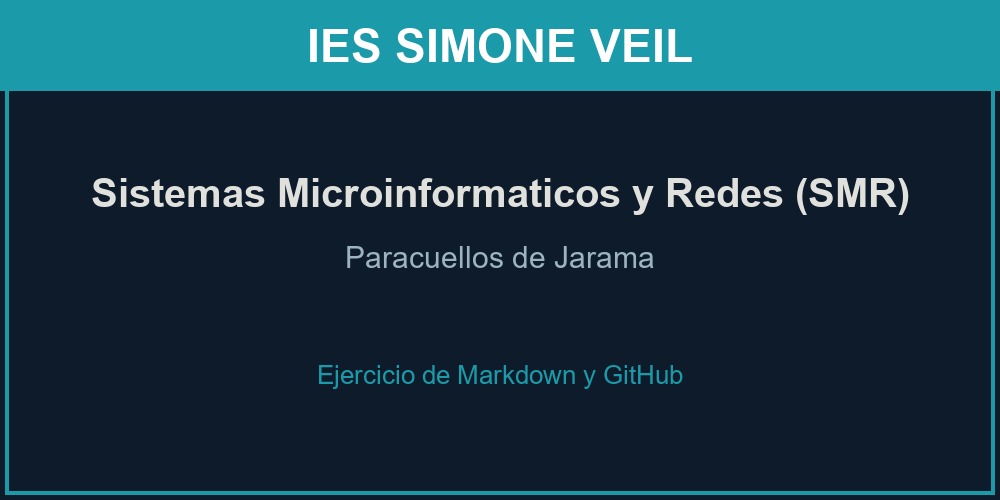
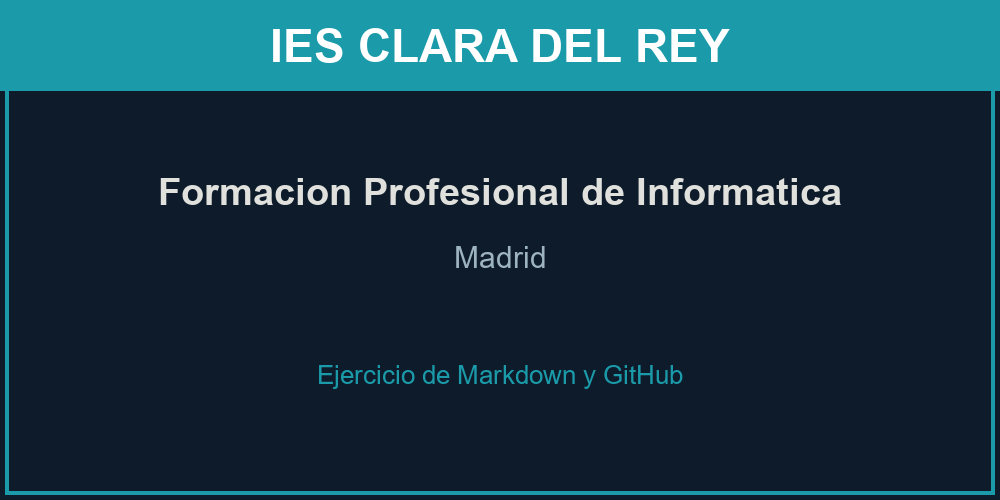
Cambio el tema del documento a IES Clara del Rey (texto e imagenes)

Changed region(s): [[0.093, 0.36, 0.93, 0.45], [0.248, 0.06, 0.744, 0.15], [0.341, 0.48, 0.651, 0.54]]

diff --git a/markdown.md b/markdown.md
@@ -1,65 +1,64 @@
-# IES Simone Veil
+# IES Clara del Rey
 
-## El ciclo de Sistemas Microinformáticos y Redes (SMR)
+## Un instituto de Madrid con nombre de heroína
 
-El **IES Simone Veil** es un instituto público situado en *Paracuellos de Jarama*
-(Comunidad de Madrid). Entre su oferta formativa se encuentra el ciclo de **Grado
-Medio de Sistemas Microinformáticos y Redes (SMR)**, donde se aprende a montar,
-configurar y mantener equipos y redes. Una de las herramientas que se usan en clase
-es el control de versiones con `git`.
+El **IES Clara del Rey** es un instituto público de *Madrid* en el que, además de la
+ESO y el Bachillerato, se imparte **Formación Profesional de Informática**. En estos
+estudios se aprende a montar equipos, administrar sistemas y redes, y usar herramientas
+como el control de versiones con `git`.
 
 ---
 
-## ¿Qué se aprende en SMR?
+## ¿Qué se estudia en Informática?
 
-En este ciclo se trabajan, entre otras cosas, estas áreas:
+Las áreas que más se trabajan en los ciclos de informática son:
 
-- Montaje y mantenimiento de equipos informáticos.
-- Instalación de sistemas operativos (Windows y Linux).
-- Redes locales: cableado, configuración y resolución de problemas.
-- Seguridad informática básica.
-- Servicios de red y pequeños servidores.
+- Montaje y mantenimiento de equipos.
+- Sistemas operativos (Windows y Linux).
+- Redes locales y servicios de red.
+- Seguridad informática.
+- Programación y desarrollo de aplicaciones.
 
-Y el itinerario habitual del alumnado suele ser:
+El itinerario típico del alumnado suele ser:
 
-1. Cursar **primer curso** (módulos básicos).
-2. Cursar **segundo curso** (módulos más avanzados).
-3. Realizar las **prácticas en empresa (FCT)**.
-4. Titular como *Técnico en Sistemas Microinformáticos y Redes*.
+1. Elegir un **ciclo** (grado medio o superior).
+2. Cursar **primer curso** con los módulos básicos.
+3. Cursar **segundo curso** con los módulos avanzados.
+4. Hacer las **prácticas en empresa (FCT)** y titular.
 
 ## Un ejemplo de código
 
-Un comando típico que usamos en Linux para ver la configuración de red:
+Comandos típicos que usamos en Linux para revisar la red:
 
 ```bash
-# Mostrar las interfaces de red y sus direcciones IP
+# Ver las interfaces de red y comprobar la conexion
 ip addr show
 ping -c 4 8.8.8.8
 ```
 
-## Módulos del ciclo (ejemplo)
+## Ciclos de FP de Informática (en España)
 
-| Módulo                         | Curso   | Horas semanales |
-|--------------------------------|---------|-----------------|
-| Montaje y mantenimiento        | Primero | 5               |
-| Redes locales                  | Primero | 6               |
-| Seguridad informática          | Segundo | 4               |
-| Servicios en red               | Segundo | 6               |
+| Ciclo                                          | Grado    | Duración |
+|------------------------------------------------|----------|----------|
+| Sistemas Microinformáticos y Redes (SMR)       | Medio    | 2 años   |
+| Administración de Sistemas Informáticos (ASIR) | Superior | 2 años   |
+| Desarrollo de Aplicaciones Web (DAW)           | Superior | 2 años   |
 
 ## Enlaces
 
-- Página oficial de la Comunidad de Madrid sobre el ciclo:
-  [Sistemas Microinformáticos y Redes](https://www.comunidad.madrid/servicios/educacion/sistemas-microinformaticos-redes).
-- Más detalles sobre el instituto en este mismo repositorio:
+- Información oficial de la Comunidad de Madrid sobre
+  [Formación Profesional](https://www.comunidad.madrid/servicios/educacion/formacion-profesional).
+- Más detalles sobre el instituto en este repositorio:
   [Ver detalles](docs/detalles.md).
 
-## Imagen del instituto (imagen local)
+## Imagen del proyecto (imagen local)
 
-![Logo del proyecto SMR del IES Simone Veil](assets/mi-imagen.png)
+![Banner del instituto IES Clara del Rey](assets/mi-imagen.png)
 
-## Simone Veil (imagen externa de Wikimedia)
+## Clara del Rey (imagen externa de Wikimedia)
 
-El instituto lleva el nombre de **Simone Veil**, política francesa y superviviente
-del Holocausto. Esta imagen procede de Wikimedia Commons:
+El instituto lleva el nombre de **Clara del Rey**, una de las heroínas del
+*levantamiento del 2 de mayo de 1808* en Madrid. Esta imagen de su busto procede de
+Wikimedia Commons:
 
-![Retrato de Simone Veil](https://upload.wikimedia.org/wikipedia/commons/thumb/f/fc/Official_portrait_of_Simone_Veil_%28cropped%29.jpg/500px-Official_portrait_of_Simone_Veil_%28cropped%29.jpg)
+![Busto de Clara del Rey en la Plaza de las Comendadoras (Madrid)](https://upload.wikimedia.org/wikipedia/commons/thumb/4/46/Clara_del_Rey_-_Plaza_de_las_Comendadoras_-_Madrid_01.jpg/500px-Clara_del_Rey_-_Plaza_de_las_Comendadoras_-_Madrid_01.jpg)

diff --git a/docs/detalles.md b/docs/detalles.md
@@ -1,21 +1,21 @@
-# Detalles del IES Simone Veil
+# Detalles del IES Clara del Rey
 
 Este es el **fichero secundario** del repositorio, enlazado desde
 [markdown.md](../markdown.md) mediante una ruta relativa.
 
 ## Sobre el instituto
 
-- **Nombre:** IES Simone Veil
-- **Localidad:** Paracuellos de Jarama (Comunidad de Madrid)
+- **Nombre:** IES Clara del Rey
+- **Localidad:** Madrid
 - **Tipo:** Instituto público de Educación Secundaria y Formación Profesional
 
-## ¿Quién fue Simone Veil?
+## ¿Quién fue Clara del Rey?
 
-Simone Veil (1927–2017) fue una política francesa, superviviente de Auschwitz,
-ministra de Sanidad y la primera presidenta del Parlamento Europeo elegido por
-sufragio universal. Dar su nombre a un instituto es una forma de recordar su
-defensa de los derechos humanos.
+Clara del Rey (Clara del Rey Calvo) fue una de las **heroínas del levantamiento del
+2 de mayo de 1808** en Madrid, durante la Guerra de la Independencia. Participó en la
+defensa del Parque de Artillería de Monteleón junto a su familia. En su memoria hay
+una calle y un busto en Madrid, y varios centros educativos llevan su nombre.
 
 ## Nota
 
-Este documento forma parte de un ejercicio de **Markdown y GitHub** del ciclo SMR.
+Este documento forma parte de un ejercicio de **Markdown y GitHub**.
